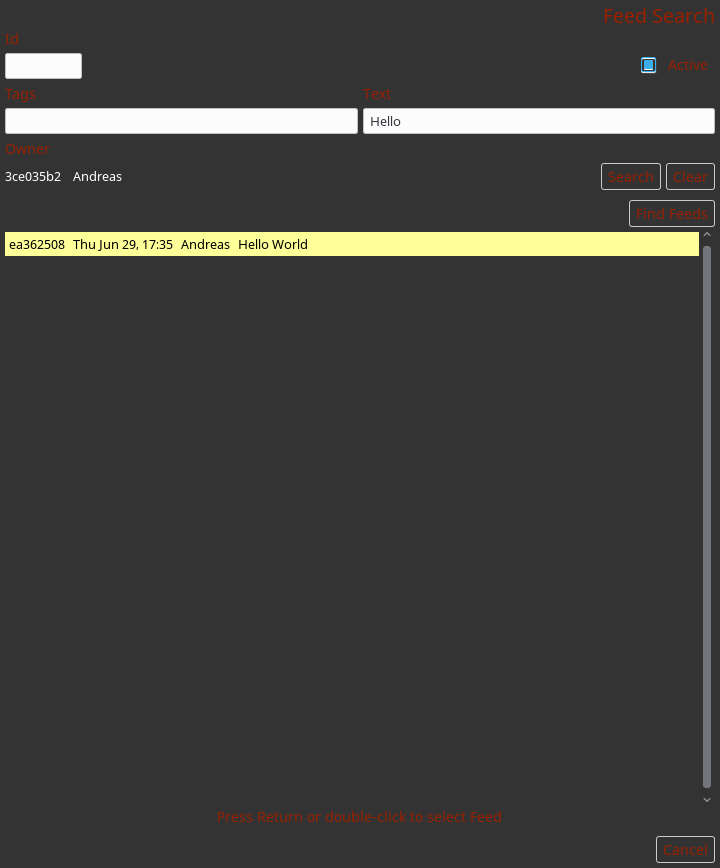
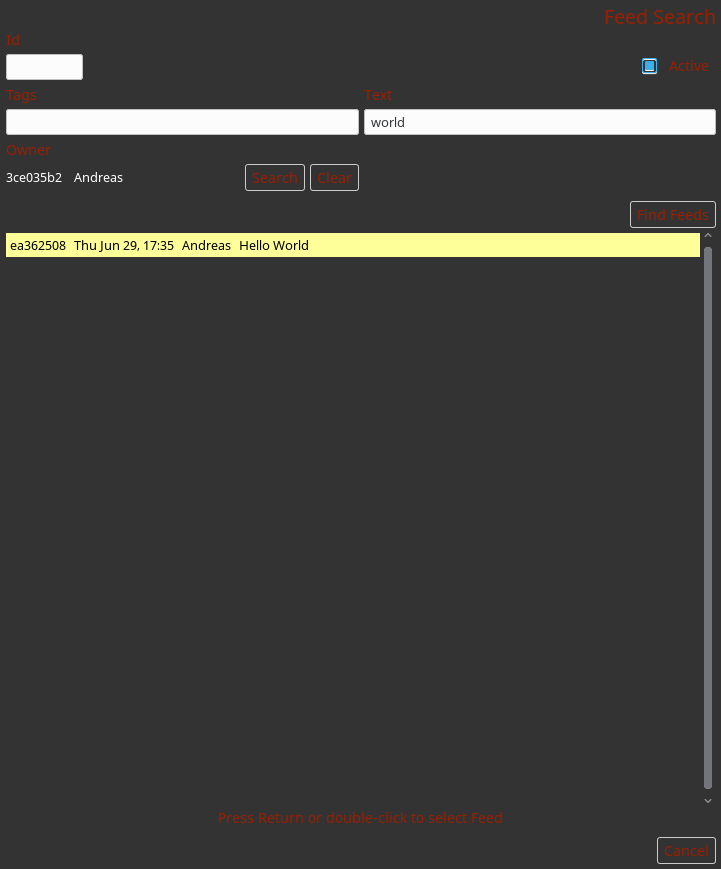
fixed field width

diff --git a/src/snackis/gui/feed_search.cpp b/src/snackis/gui/feed_search.cpp
@@ -46,19 +46,22 @@ namespace gui {
     gtk_container_add(GTK_CONTAINER(top_box), active_fld);
     gtk_toggle_button_set_active(GTK_TOGGLE_BUTTON(active_fld), true);
     
-    auto text_box(new_grid());
-    gtk_container_add(GTK_CONTAINER(fields), text_box);
-    
-    gtk_grid_attach(GTK_GRID(text_box), new_label("Tags"), 0, 0, 1, 1);
+    auto frm(new_grid());
+    gtk_grid_set_column_homogeneous(GTK_GRID(frm), true);
+    gtk_container_add(GTK_CONTAINER(fields), frm);
+
+    int row(0);
+    gtk_grid_attach(GTK_GRID(frm), new_label("Tags"), 0, row, 1, 1);
     gtk_widget_set_hexpand(tags_fld, true);
-    gtk_grid_attach(GTK_GRID(text_box), tags_fld, 0, 1, 1, 1);
+    gtk_grid_attach(GTK_GRID(frm), tags_fld, 0, row+1, 1, 1);
 
-    gtk_grid_attach(GTK_GRID(text_box), new_label("Text"), 1, 0, 1, 1);
+    gtk_grid_attach(GTK_GRID(frm), new_label("Text"), 1, row, 1, 1);
     gtk_widget_set_hexpand(text_fld, true);
-    gtk_grid_attach(GTK_GRID(text_box), text_fld, 1, 1, 1, 1);
+    gtk_grid_attach(GTK_GRID(frm), text_fld, 1, row+1, 1, 1);
 
-    gtk_container_add(GTK_CONTAINER(fields), new_label("Owner"));
-    gtk_container_add(GTK_CONTAINER(fields), peer_fld.ptr());
+    row += 2;
+    gtk_grid_attach(GTK_GRID(frm), new_label("Owner"), 0, row, 1, 1);
+    gtk_grid_attach(GTK_GRID(frm), peer_fld.ptr(), 0, row+1, 1, 1);
 
     add_col(GTK_TREE_VIEW(list), "Id", COL_ID);
     add_col(GTK_TREE_VIEW(list), "Created", COL_CREATED);

diff --git a/src/snackis/gui/feed_history.cpp b/src/snackis/gui/feed_history.cpp
@@ -35,7 +35,7 @@ namespace gui {
     gtk_container_add(GTK_CONTAINER(box), gtk_widget_get_parent(lst));
 
     gtk_container_add(GTK_CONTAINER(box),
-		      gtk_label_new("Press Return or double-click to edit Post"));
+		      gtk_label_new("Press Return or double-click to view Post"));
 
   }
 
